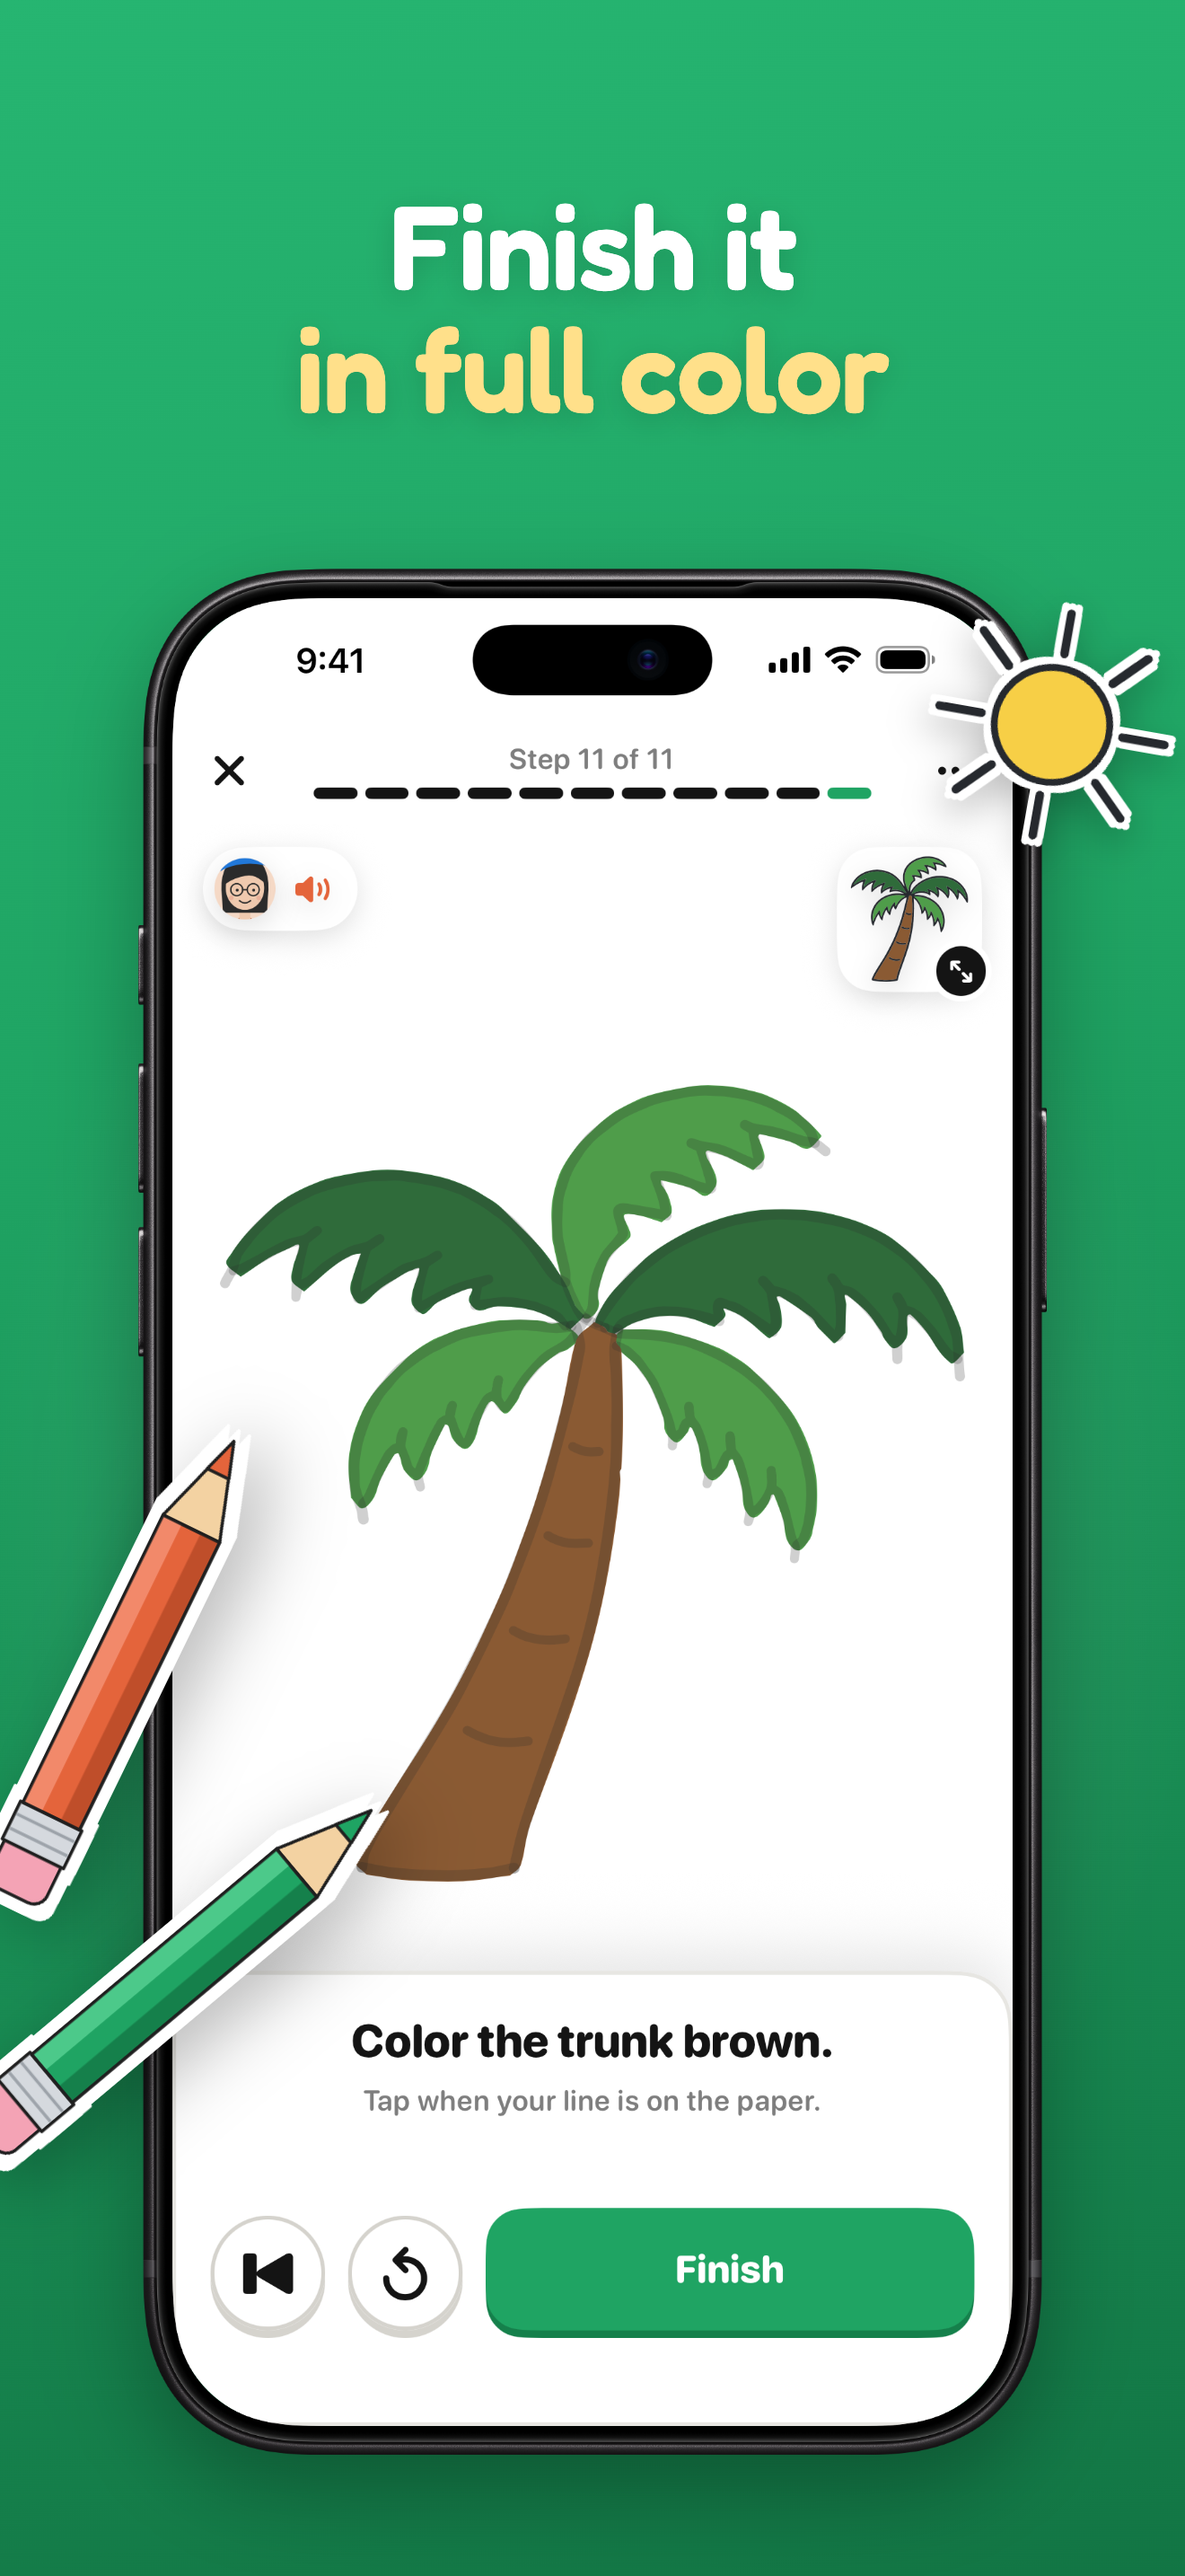
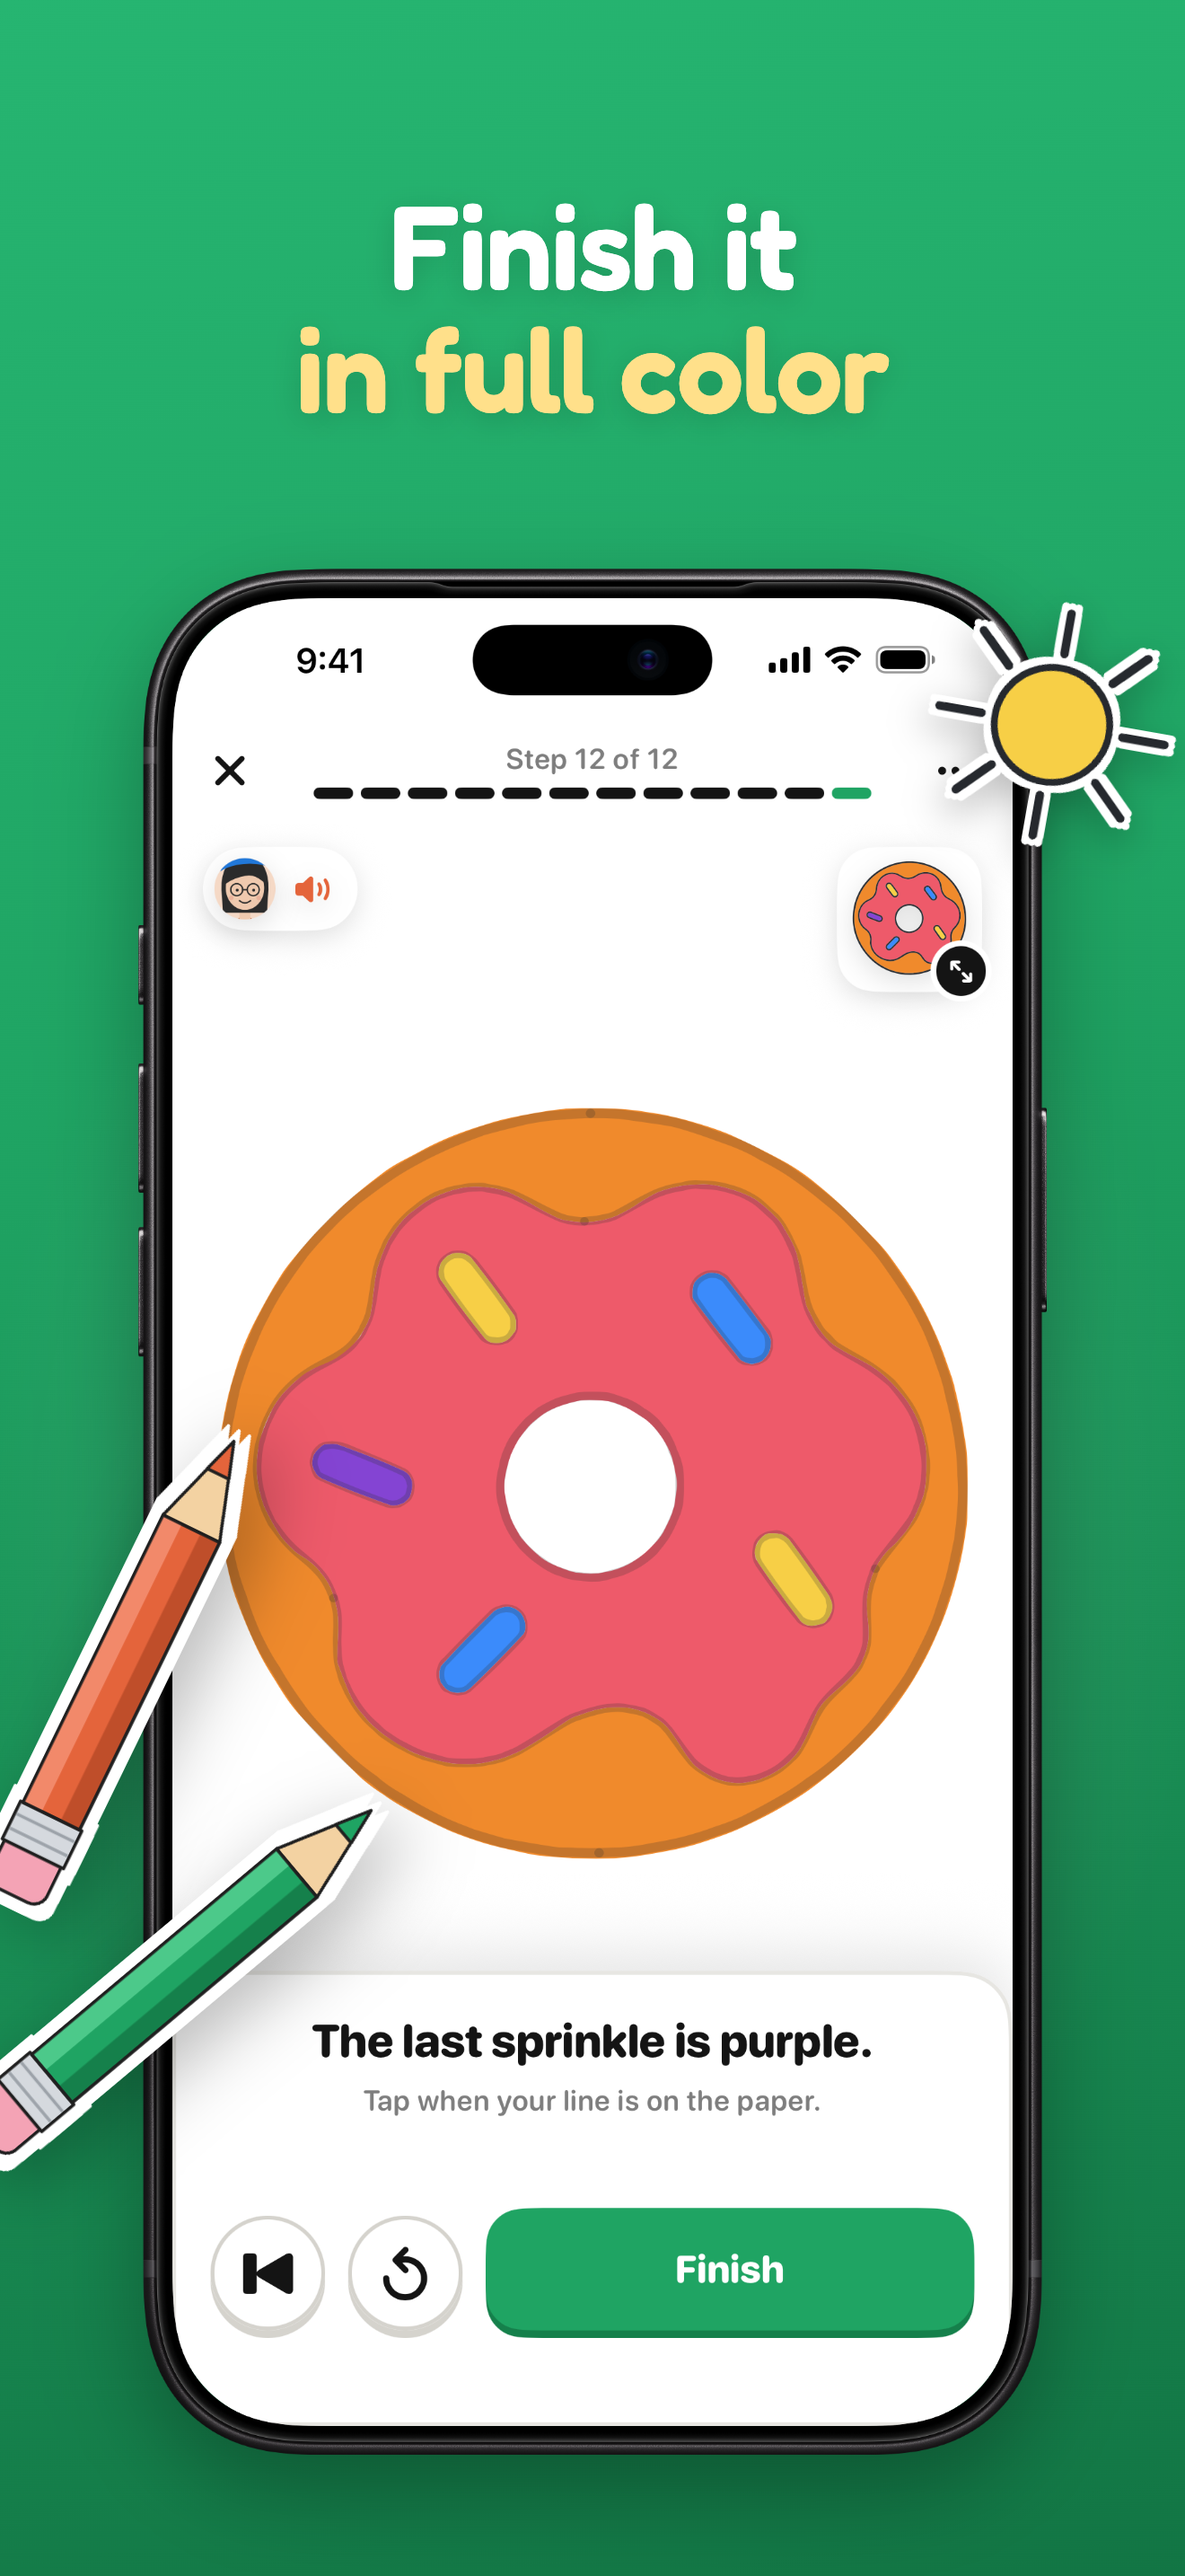
App Store art: a different drawing on shots 4, 5 and 7
The harness drew the palm tree on every lesson screen, so four of the eight
shots showed the same picture, and a Premium one (Plants 7 of 10). Shot 1
keeps it, since its photo shows the same drawing. The color shot now finishes
the donut, the preview is the rocket and the finished picture is the sailboat:
each the free first lesson of another path.

-STLesson <id> puts another lesson in the palm tree's place (debug harness
only), and capture.sh takes it as screen@lesson.

diff --git a/docs/app-store/marketing/gallery.html b/docs/app-store/marketing/gallery.html
@@ -59,11 +59,11 @@
         <figcaption><b>03</b> Keep every drawing</figcaption>
       </figure>
       <figure>
-        <a href="out/iphone/04-color.png?v=1790479582012" target="_blank"><img src="out/iphone/04-color.png?v=1790479582012" alt="Finish it in full color" loading="lazy"></a>
+        <a href="out/iphone/04-color.png?v=1790485068248" target="_blank"><img src="out/iphone/04-color.png?v=1790485068248" alt="Finish it in full color" loading="lazy"></a>
         <figcaption><b>04</b> Finish it in full color</figcaption>
       </figure>
       <figure>
-        <a href="out/iphone/05-method.png?v=1790479582690" target="_blank"><img src="out/iphone/05-method.png?v=1790479582690" alt="Watch a line, then draw it" loading="lazy"></a>
+        <a href="out/iphone/05-method.png?v=1790485069842" target="_blank"><img src="out/iphone/05-method.png?v=1790485069842" alt="Watch a line, then draw it" loading="lazy"></a>
         <figcaption><b>05</b> Watch a line, then draw it</figcaption>
       </figure>
       <figure>
@@ -71,7 +71,7 @@
         <figcaption><b>06</b> Start simple, then level up</figcaption>
       </figure>
       <figure>
-        <a href="out/iphone/07-done.png?v=1790479584043" target="_blank"><img src="out/iphone/07-done.png?v=1790479584043" alt="A finished picture in minutes" loading="lazy"></a>
+        <a href="out/iphone/07-done.png?v=1790485071410" target="_blank"><img src="out/iphone/07-done.png?v=1790485071410" alt="A finished picture in minutes" loading="lazy"></a>
         <figcaption><b>07</b> A finished picture in minutes</figcaption>
       </figure>
       <figure>
@@ -97,11 +97,11 @@
         <figcaption><b>03</b> Keep every drawing</figcaption>
       </figure>
       <figure>
-        <a href="out/ipad/04-color.png?v=1790482920109" target="_blank"><img src="out/ipad/04-color.png?v=1790482920109" alt="Finish it in full color" loading="lazy"></a>
+        <a href="out/ipad/04-color.png?v=1790485073357" target="_blank"><img src="out/ipad/04-color.png?v=1790485073357" alt="Finish it in full color" loading="lazy"></a>
         <figcaption><b>04</b> Finish it in full color</figcaption>
       </figure>
       <figure>
-        <a href="out/ipad/05-method.png?v=1790482952913" target="_blank"><img src="out/ipad/05-method.png?v=1790482952913" alt="Watch a line, then draw it" loading="lazy"></a>
+        <a href="out/ipad/05-method.png?v=1790485075127" target="_blank"><img src="out/ipad/05-method.png?v=1790485075127" alt="Watch a line, then draw it" loading="lazy"></a>
         <figcaption><b>05</b> Watch a line, then draw it</figcaption>
       </figure>
       <figure>
@@ -109,7 +109,7 @@
         <figcaption><b>06</b> Start simple, then level up</figcaption>
       </figure>
       <figure>
-        <a href="out/ipad/07-done.png?v=1790482923533" target="_blank"><img src="out/ipad/07-done.png?v=1790482923533" alt="A finished picture in minutes" loading="lazy"></a>
+        <a href="out/ipad/07-done.png?v=1790485076950" target="_blank"><img src="out/ipad/07-done.png?v=1790485076950" alt="A finished picture in minutes" loading="lazy"></a>
         <figcaption><b>07</b> A finished picture in minutes</figcaption>
       </figure>
       <figure>

diff --git a/PaperCoach/App/DebugScreenHarness.swift b/PaperCoach/App/DebugScreenHarness.swift
@@ -58,9 +58,12 @@ enum DebugScreenHarness {
         // tree (upright) and the red car (wide). They are found by lesson id and not
         // by the path they sit in, so renaming a path in the catalog cannot empty
         // this file; a catalog that carries neither falls back to the first two
-        // paths that shipped with anything at all.
+        // paths that shipped with anything at all. `-STLesson <id>` puts another
+        // lesson (and its path) in the palm tree's place, so the App Store art can
+        // show a different drawing on each screen.
         let shipped = app.paths.filter { !$0.isEmpty }
-        guard let treeLesson = app.lesson(id: "palm-tree") ?? shipped.first?.lessons.first,
+        let chosenLesson = UserDefaults.standard.string(forKey: "STLesson").flatMap { app.lesson(id: $0) }
+        guard let treeLesson = chosenLesson ?? app.lesson(id: "palm-tree") ?? shipped.first?.lessons.first,
               let treePath = app.path(id: treeLesson.pathId)
         else {
             return // The catalog carries no lesson with a tutorial behind it.

diff --git a/docs/app-store/marketing/shots.js b/docs/app-store/marketing/shots.js
@@ -113,7 +113,7 @@ export const SHOTS = [
   {
     id: 'color',
     title: 'Finish it<br><em>in full color</em>',
-    capture: 'player-last',
+    capture: 'player-last@donut',
     stickers: [
       { name: 'pencil:clay', x: 0.0, y: 0.58, size: 0.56, rot: -64 },
       { name: 'pencil:green', x: 0.06, y: 0.74, size: 0.56, rot: -40 },
@@ -123,7 +123,7 @@ export const SHOTS = [
   {
     id: 'method',
     title: 'Watch a line,<br><em>then draw it</em>',
-    capture: 'preview-default',
+    capture: 'preview-default@rocket',
     stickers: [
       { name: 'hot-air-balloon', x: 0.0, y: 0.11, size: 0.30, rot: -10 },
       { name: 'pencil:green', x: 1.0, y: 0.68, size: 0.58, rot: 62 },
@@ -147,7 +147,7 @@ export const SHOTS = [
   {
     id: 'done',
     title: 'A finished picture<br><em>in minutes</em>',
-    capture: 'completion-default',
+    capture: 'completion-default@sailboat',
     stickers: [
       { name: 'star', x: 0.02, y: 0.09, size: 0.24, rot: -16 },
       { name: 'gift-box', x: 1.01, y: 0.60, size: 0.26, rot: 10 },

diff --git a/docs/app-store/marketing/README.md b/docs/app-store/marketing/README.md
@@ -9,10 +9,10 @@ They replace the plain simulator captures in `../screenshots/`.
 | 1 | Learn to draw step by step | `player-awaiting`, with a photo of a hand drawing the same palm tree on paper, the marker at the end of the leaf the phone shows |
 | 2 | Draw what you love | `paths` |
 | 3 | Keep every drawing | `sketchbook-filled`, with a photo of hands holding a sketchpad with the sunflower lesson drawn and colored on it |
-| 4 | Finish it in full color | `player-last` |
-| 5 | Watch a line, then draw it | `preview-default` |
+| 4 | Finish it in full color | `player-last@donut` |
+| 5 | Watch a line, then draw it | `preview-default@rocket` |
 | 6 | Start simple, then level up | `path-default` |
-| 7 | A finished picture in minutes | `completion-default` |
+| 7 | A finished picture in minutes | `completion-default@sailboat` |
 | 8 | Pick up where you left off | `home-progress` |
 
 The first three are what App Store search shows, side by side at about a third of the phone's width, so they
@@ -82,10 +82,14 @@ After a UI change, build the Debug app for the simulator, install it on the two 
 gives their udids), boot them, then capture and render:
 
 ```bash
-docs/app-store/marketing/capture.sh <iphone udid> iphone player-awaiting paths sketchbook-filled player-last preview-default path-default completion-default home-progress
-docs/app-store/marketing/capture.sh <ipad udid> ipad player-awaiting paths sketchbook-filled player-last preview-default path-default completion-default home-progress
+docs/app-store/marketing/capture.sh <iphone udid> iphone player-awaiting paths sketchbook-filled player-last@donut preview-default@rocket path-default completion-default@sailboat home-progress
+docs/app-store/marketing/capture.sh <ipad udid> ipad player-awaiting paths sketchbook-filled player-last@donut preview-default@rocket path-default completion-default@sailboat home-progress
 node docs/app-store/marketing/render.mjs
 ```
+
+A lesson screen draws the palm tree unless another lesson follows an `@` (`player-last@donut` launches with
+`-STLesson donut`). Only shot 1 uses the palm tree, since its photo shows the same drawing; the others each show a
+different free lesson (the first of its path), so the listing shows the range of drawings, not one picture four times.
 
 Each screen gets 8 seconds to settle (the player's reference picture loads last); Home needs longer: capture it
 with `SETTLE=9`. The iPad captures are from the sidebar layout (commit `3b377c7`), so they go with a build that has
